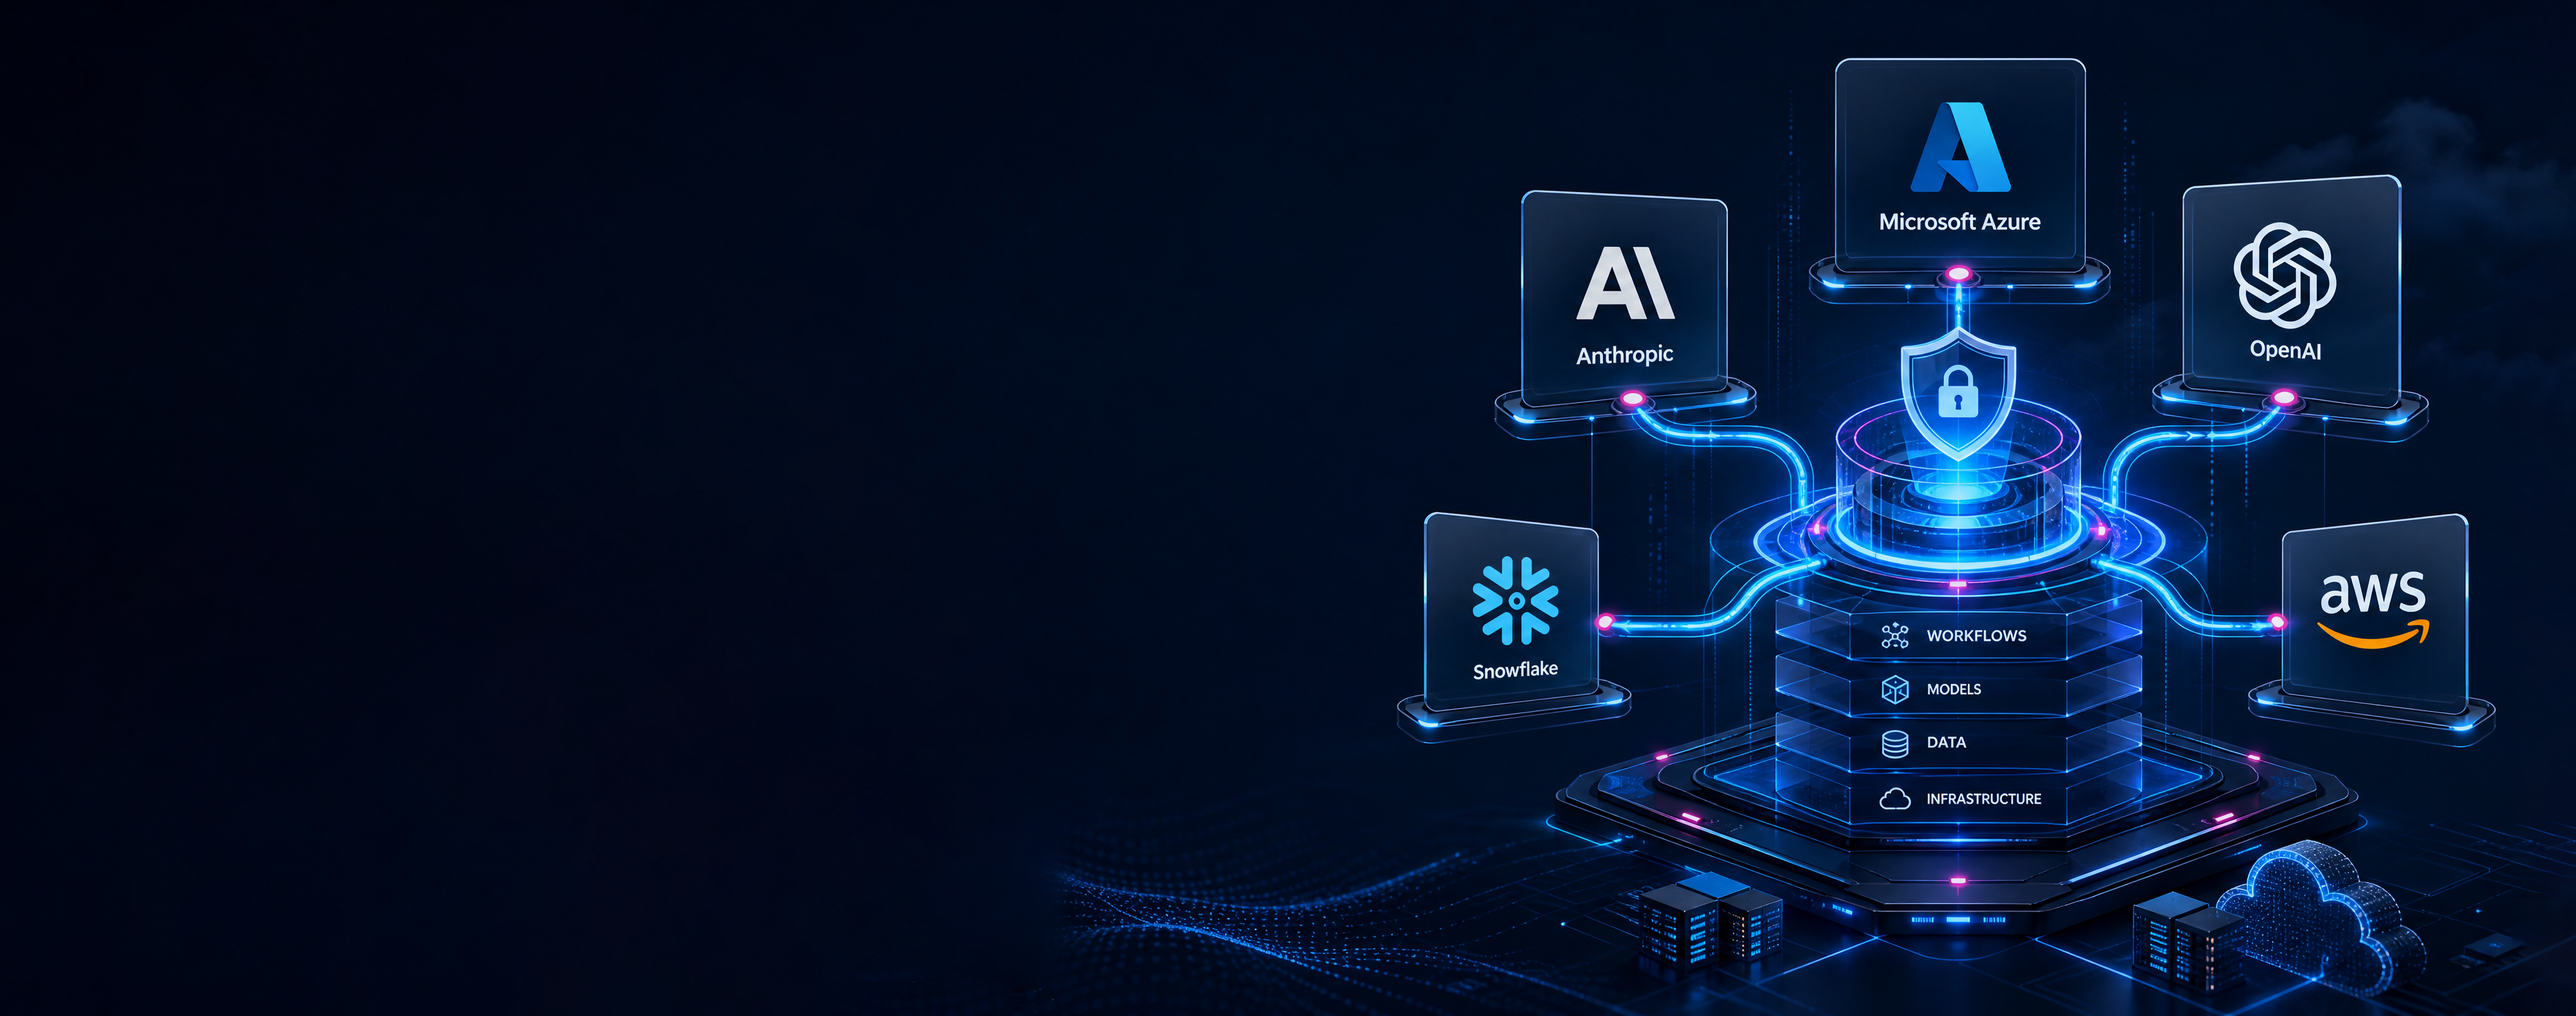
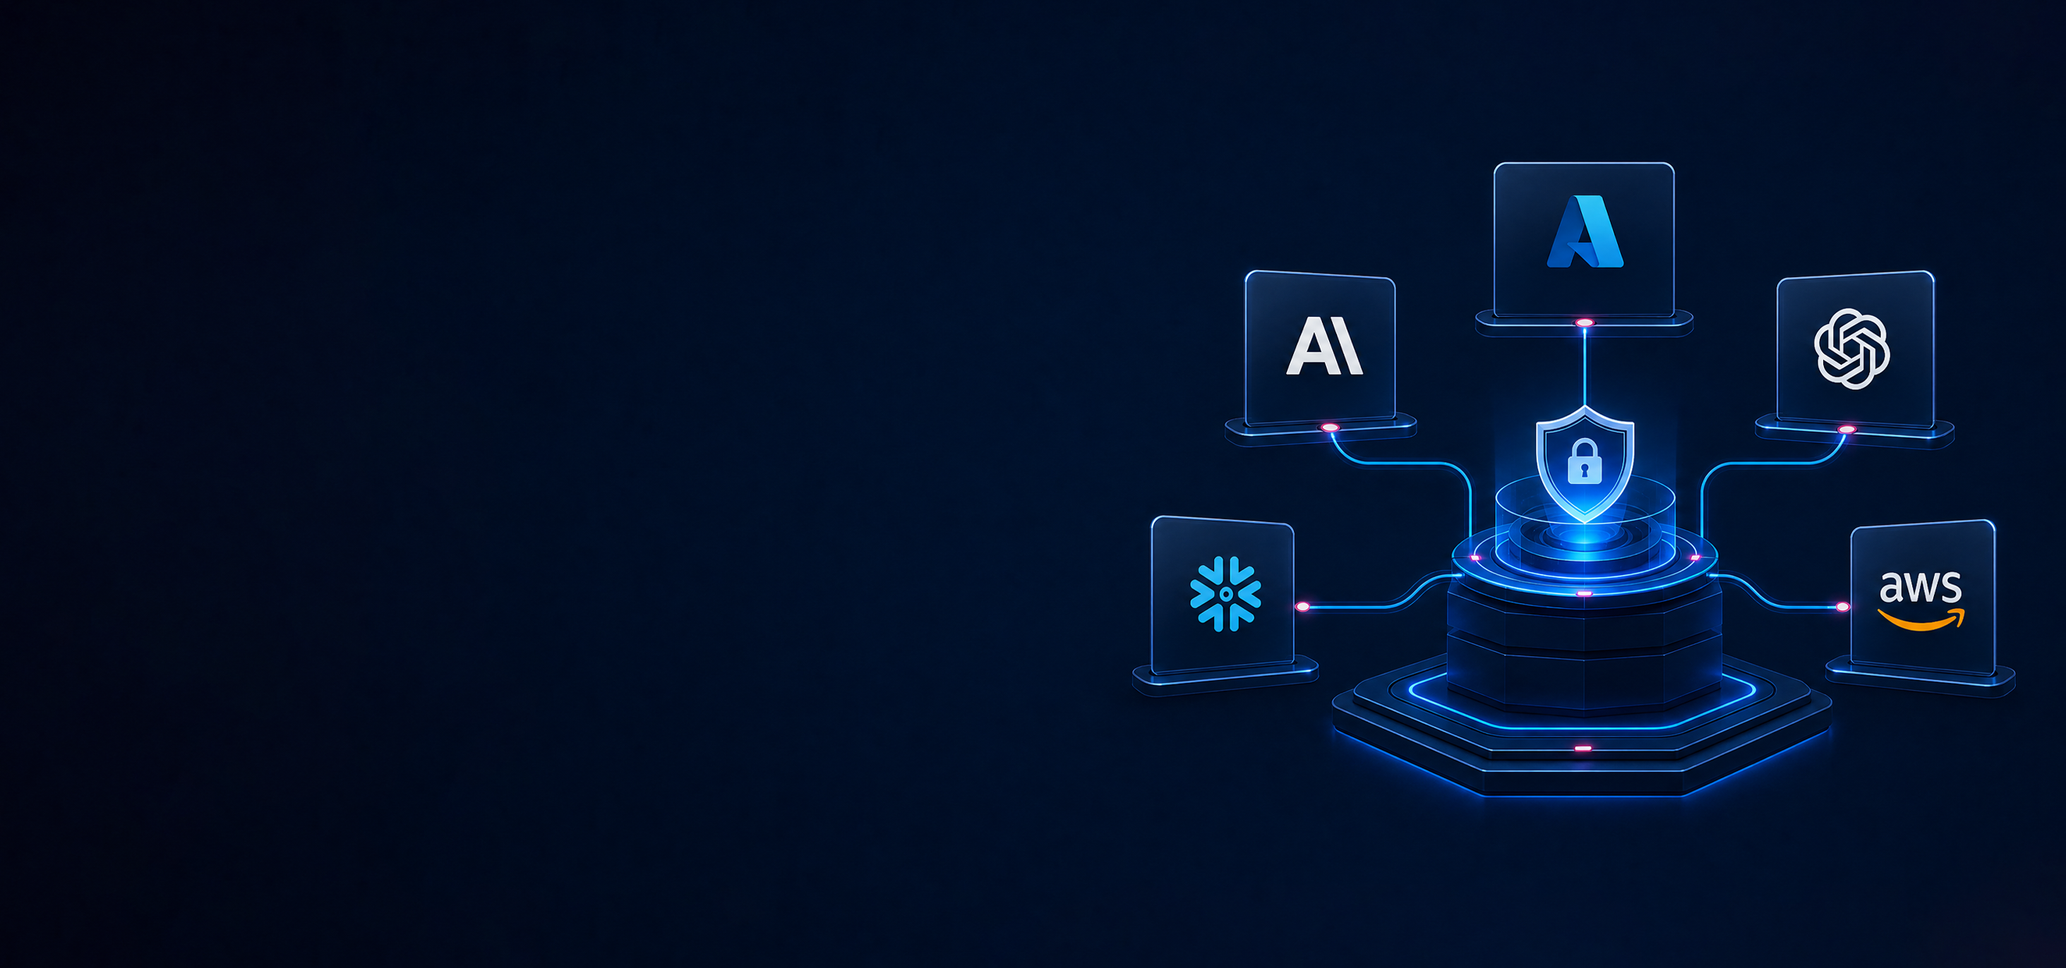
Update Technology Partners Section with New Images and Adjust Text Sizes: Replace image paths for technology partners with final assets, update text sizes in the TechnologyPartnersHeroSection and TechnologyPartnersPageSections for improved readability, and adjust CSS styles in aiWorkflows.module.css

diff --git a/apps/web/data/technologyPartners.ts b/apps/web/data/technologyPartners.ts
@@ -18,7 +18,7 @@ export const technologyPartnersContent = {
       eyebrow: "Microsoft Azure",
       title: "Enterprise grade, compliance ready cloud",
       description: "We use Azure as our core deployment environment for enterprise grade, compliance sensitive workloads leveraging Azure OpenAI Service, Azure Kubernetes Service, and Azure's identity and governance tooling to stand up secure, auditable environments quickly. Our teams pair Azure's compliance certifications with our own Regulated by Design practices, so clients in healthcare, finance, and insurance get infrastructure that's audit ready from day one rather than retrofitted later.\nClient impact: 35% faster environment provisioning for regulated clients; 99.9% platform uptime across production deployments; reduced compliance audit prep time by roughly a third for healthcare clients handling HIPAA governed data.",
-      image: "/assets/images/industry/cloud.jpg",
+      image: "/assets/final-images/technology-partners/Microsoft_Azure.png",
       imageAlt: "Microsoft Azure enterprise cloud deployments",
       imageSide: "right" as const,
       tags: [
@@ -32,7 +32,7 @@ export const technologyPartnersContent = {
       eyebrow: "Anthropic",
       title: "Responsible AI with Claude at the core",
       description: "Anthropic's Claude models anchor our Human in the Loop and Responsible AI practice, powering reasoning intensive agentic workflows such as document analysis, policy/compliance monitoring, and complex customer inquiry handling. We selected Anthropic as a strategic partner because Claude's emphasis on steerability and safety aligns directly with our Verifiable AI Transparency principles giving clients agents that are capable, auditable, and controllable in live production settings, not just in a demo.\nClient impact: 40%+ reduction in manual review time for compliance monitoring workflows; measurable drop in escalation rates for AI handled customer inquiries; improved auditability scores in internal governance reviews following deployment.",
-      image: "/assets/images/capabilities/team.jpg",
+      image: "/assets/final-images/technology-partners/Anthropic.png",
       imageAlt: "Anthropic Claude powering responsible agentic workflows",
       imageSide: "left" as const,
       tags: [
@@ -46,7 +46,7 @@ export const technologyPartnersContent = {
       eyebrow: "OpenAI",
       title: "Speed, creativity, and general purpose reasoning",
       description: "We integrate OpenAI's models where speed, creative range, and broad general purpose reasoning give clients the biggest competitive edge including AI powered lead scoring, proposal generation, and rapid prototyping of new agentic capabilities. By layering our own governance and human oversight controls on top of OpenAI's fast moving model ecosystem, clients get cutting edge generative AI capability without inheriting the operational or compliance risk that often accompanies it.\nClient impact: 2-3x faster proposal turnaround for sales teams using AI generated first drafts; meaningful lift in qualified lead conversion following AI based scoring; significant cut in prototype to pilot timelines for new AI use cases.",
-      image: "/assets/images/capabilities/machine-learning.jpg",
+      image: "/assets/final-images/technology-partners/openai.png",
       imageAlt: "OpenAI models accelerating generative AI delivery",
       imageSide: "right" as const,
       tags: [
@@ -74,7 +74,7 @@ export const technologyPartnersContent = {
       eyebrow: "AWS",
       title: "Elastic scale from pilot to enterprise",
       description: "AWS provides the elastic compute, storage, and managed AI/ML services (including Bedrock and SageMaker) that let us scale client solutions from pilot to enterprise wide deployment without re architecting along the way. We lean on AWS's maturity in security certifications and global infrastructure footprint to deliver Agentic Orchestration and automation workloads that stay highly available as usage and business value grows.\nClient impact: 20-30% infrastructure cost optimization after migrating agentic workloads to right sized AWS compute; near linear scalability validated under peak load testing; reduced deployment cycle time for new automation workflows moving from pilot to production.",
-      image: "/assets/images/capabilities/tech.jpg",
+      image: "/assets/final-images/technology-partners/AWS.png",
       imageAlt: "AWS cloud infrastructure for scalable AI workloads",
       imageSide: "right" as const,
       tags: [

diff --git a/apps/web/components/sections/technology-partners/TechnologyPartnersHeroSection.tsx b/apps/web/components/sections/technology-partners/TechnologyPartnersHeroSection.tsx
@@ -14,10 +14,11 @@ export default function TechnologyPartnersHeroSection() {
     <section className="relative flex min-h-[760px] flex-col justify-center overflow-hidden bg-default pt-28 pb-20 md:min-h-screen md:pt-36">
       <div className="absolute inset-0">
         <Image
-          src="/assets/images/package/partners/tech-partners-hero.svg"
+          src="/assets/final-images/technology-partners/Technology_Partners_Hero.png?v3"
           alt=""
           fill
           priority
+          sizes="100vw"
           className="object-cover object-center"
           aria-hidden
         />

diff --git a/apps/web/components/sections/ai-workflows/aiWorkflows.module.css b/apps/web/components/sections/ai-workflows/aiWorkflows.module.css
@@ -218,7 +218,7 @@
 
 .heroTitle {
   font-weight: 600;
-  font-size: 36px;
+  font-size: 48px;
   margin-bottom: 20px;
   letter-spacing: -0.025em;
   line-height: 1.15;
@@ -509,7 +509,7 @@
 }
 
 .detailHeadline {
-  font-size: 36px;
+  font-size: 48px;
   font-weight: 600;
   letter-spacing: -0.025em;
   line-height: 1.15;
@@ -827,6 +827,10 @@
   }
   .heroText {
     padding: 110px 0 90px;
+  }
+  .heroTitle,
+  .detailHeadline {
+    font-size: 36px;
   }
   .collection {
     padding: 64px 0;

diff --git a/apps/web/components/sections/technology-partners/TechnologyPartnersPageSections.tsx b/apps/web/components/sections/technology-partners/TechnologyPartnersPageSections.tsx
@@ -21,7 +21,7 @@ export default function TechnologyPartnersPageSections() {
           solidTypography
           className="pt-16 pb-16"
           labelClassName="text-[12px]"
-          titleClassName="text-[20px] text-black"
+          titleClassName="text-[36px] text-black"
           descriptionClassName="text-[16px] text-black"
         />
       </div>
